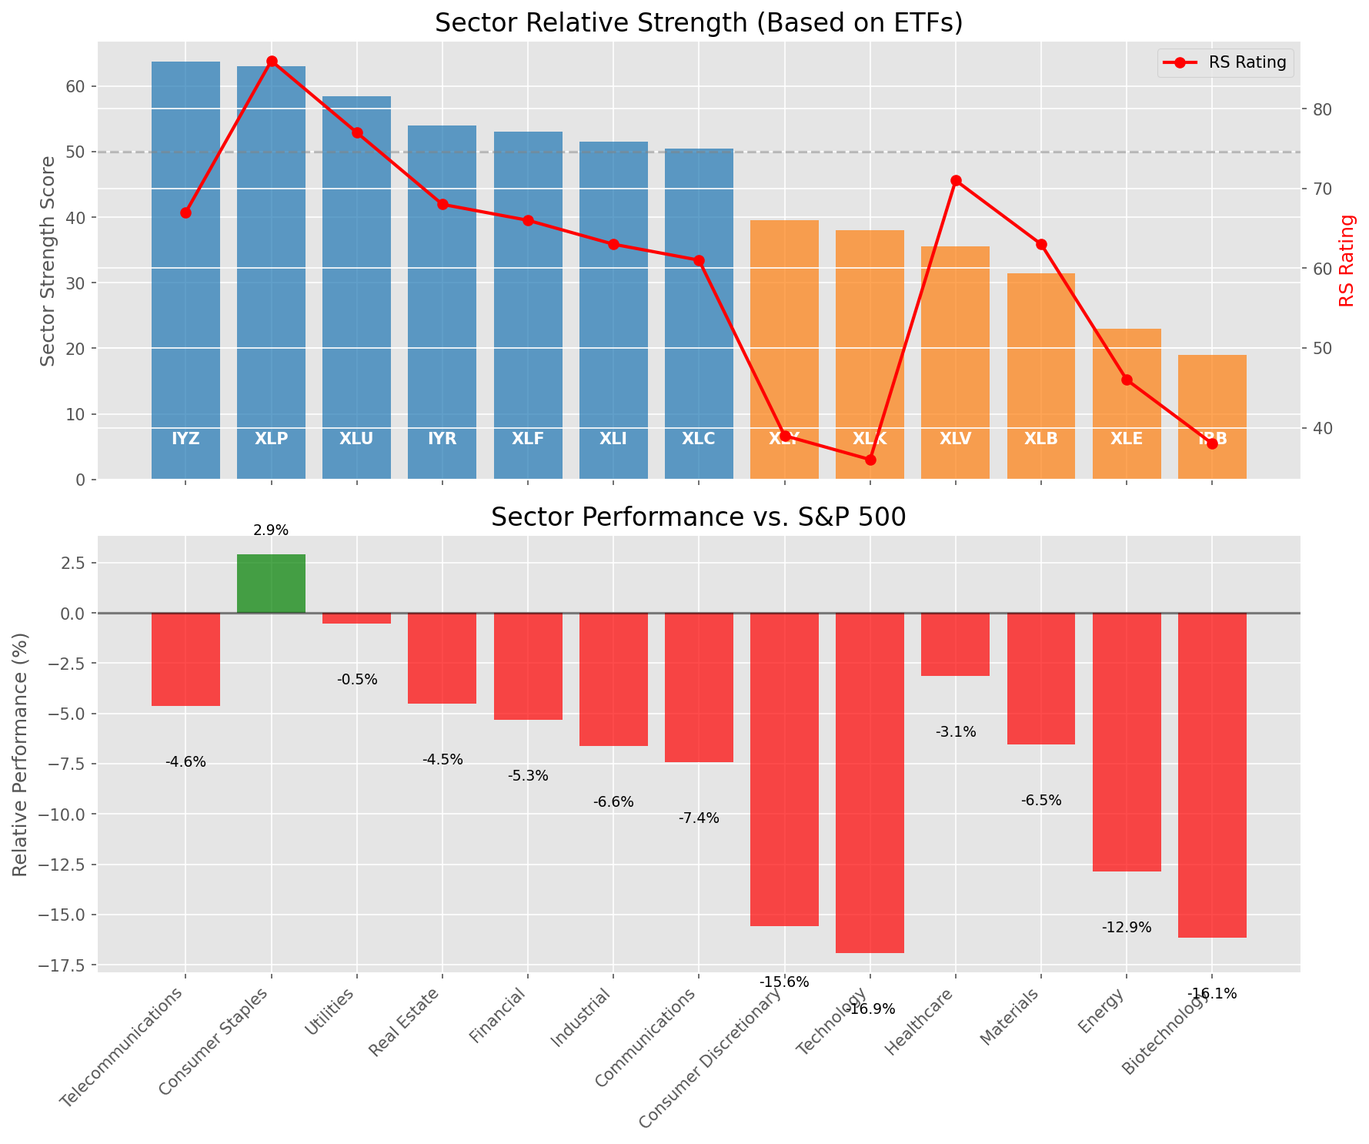
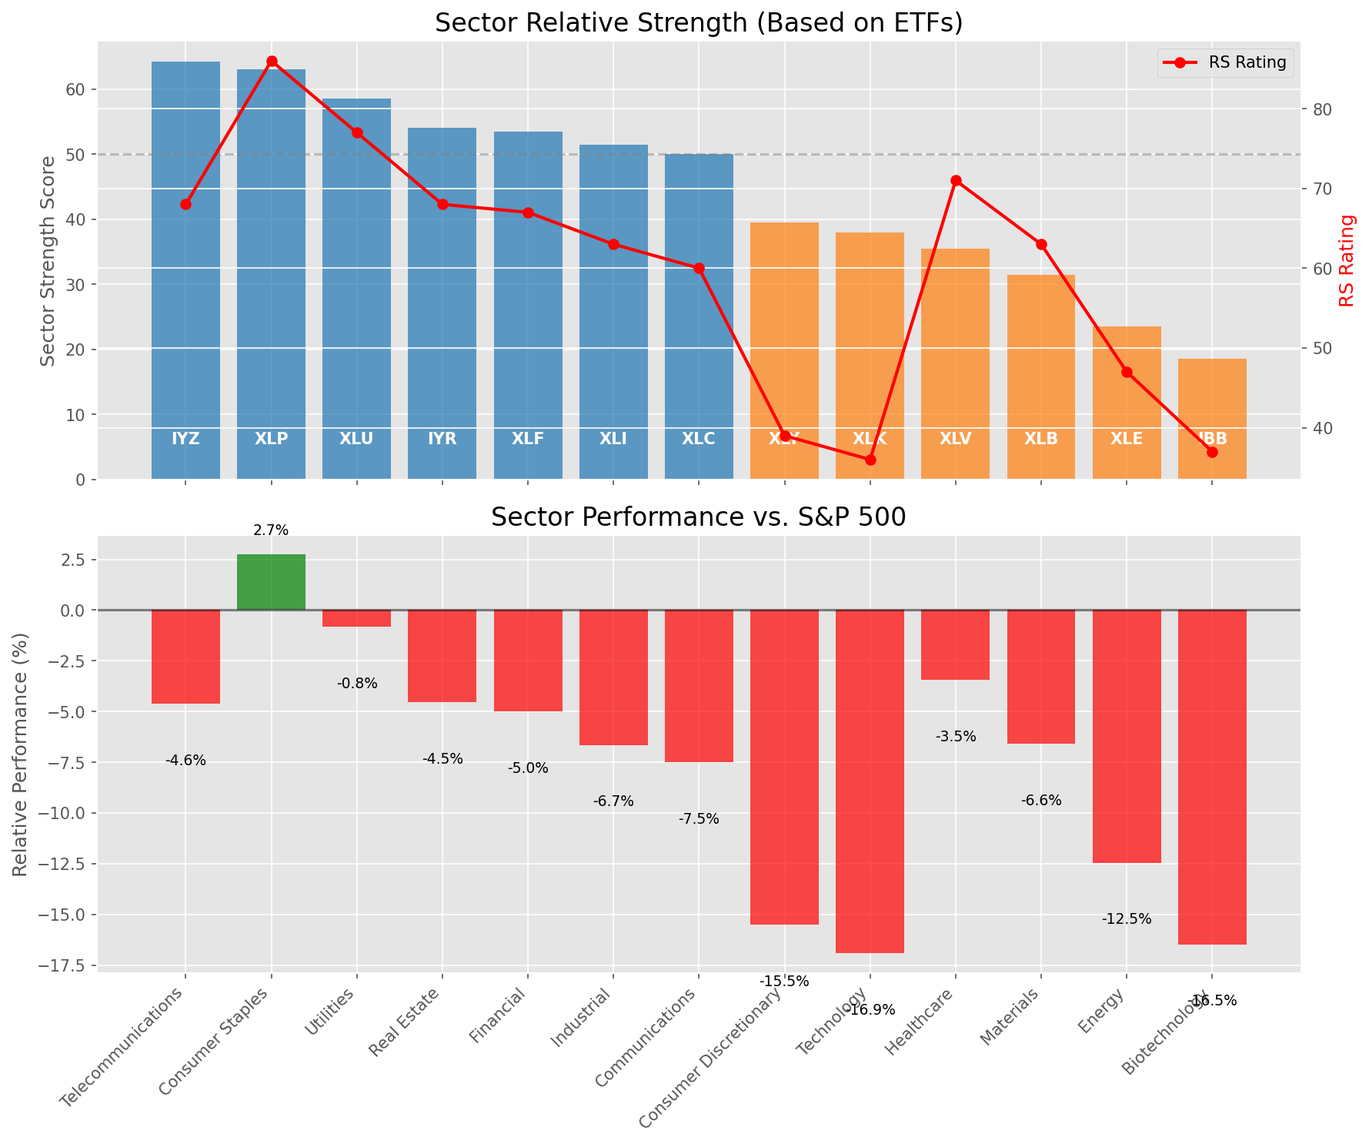
Add market report for 2025-04-10

diff --git a/oneil_relative_strength_report_2025-04-10.md b/oneil_relative_strength_report_2025-04-10.md
@@ -1,12 +1,3 @@
----
-layout: page
-title: "Daily Relative Strength Report - 2025-04-10"
----
-
-<div class="site-nav" style="margin-bottom: 20px;">
-  <a href="{{ site.baseurl }}/archive" class="nav-link">Report Archive</a>
-</div>
-
 # Daily Relative Strength Report
 
 **Date:** 2025-04-10
@@ -18,11 +9,11 @@ title: "Daily Relative Strength Report - 2025-04-10"
 | Metric | Value |
 |--------|-------|
 | **Market Valuation** | **Undervalued** |
-| **Current Ratio** | 8.62 |
+| **Current Ratio** | 8.66 |
 | **Historical Mean** | 9.71 |
 | **Standard Deviation** | 0.43 |
 | **Z-Score (StdDev from Mean)** | -1.58 |
-| **Total Market Cap** | $256.14 trillion |
+| **Total Market Cap** | $257.43 trillion |
 | **GDP** | $29.72 trillion |
 
 ## Market Insights
@@ -56,19 +47,19 @@ The Buffett Indicator (Total Market Cap / GDP) is a measure of the stock market'
 
 | ETF | Strength | RS Rating | Performance | Above Key MAs | Trend | Sector |
 |-----|----------|-----------|-------------|--------------|-------|--------|
-| [IYZ](https://www.tradingview.com/chart/?symbol=IYZ) | 63.7 | 67.0 | -4.62% | 10d ✗, 50d ✗, 200d ✓ | ↗ | Telecommunications |
-| [XLP](https://www.tradingview.com/chart/?symbol=XLP) | 63.0 | 86.0 | 2.90% | 10d ✗, 50d ✗, 200d ✗ | ↗ | Consumer Staples |
-| [XLU](https://www.tradingview.com/chart/?symbol=XLU) | 58.5 | 77.0 | -0.52% | 10d ✗, 50d ✗, 200d ✗ | ↗ | Utilities |
-| [IYR](https://www.tradingview.com/chart/?symbol=IYR) | 54.0 | 68.0 | -4.53% | 10d ✗, 50d ✗, 200d ✗ | ↗ | Real Estate |
-| [XLF](https://www.tradingview.com/chart/?symbol=XLF) | 53.0 | 66.0 | -5.32% | 10d ✗, 50d ✗, 200d ✗ | ↗ | Financial |
-| [XLI](https://www.tradingview.com/chart/?symbol=XLI) | 51.5 | 63.0 | -6.64% | 10d ✗, 50d ✗, 200d ✗ | ↗ | Industrial |
-| [XLC](https://www.tradingview.com/chart/?symbol=XLC) | 50.5 | 61.0 | -7.44% | 10d ✗, 50d ✗, 200d ✗ | ↗ | Communications |
-| [XLY](https://www.tradingview.com/chart/?symbol=XLY) | 39.5 | 39.0 | -15.59% | 10d ✗, 50d ✗, 200d ✗ | ↗ | Consumer Discretionary |
-| [XLK](https://www.tradingview.com/chart/?symbol=XLK) | 38.0 | 36.0 | -16.94% | 10d ✗, 50d ✗, 200d ✗ | ↗ | Technology |
-| [XLV](https://www.tradingview.com/chart/?symbol=XLV) | 35.5 | 71.0 | -3.15% | 10d ✗, 50d ✗, 200d ✗ | ↘ | Healthcare |
-| [XLB](https://www.tradingview.com/chart/?symbol=XLB) | 31.5 | 63.0 | -6.55% | 10d ✗, 50d ✗, 200d ✗ | ↘ | Materials |
-| [XLE](https://www.tradingview.com/chart/?symbol=XLE) | 23.0 | 46.0 | -12.86% | 10d ✗, 50d ✗, 200d ✗ | ↘ | Energy |
-| [IBB](https://www.tradingview.com/chart/?symbol=IBB) | 19.0 | 38.0 | -16.15% | 10d ✗, 50d ✗, 200d ✗ | ↘ | Biotechnology |
+| [IYZ](https://www.tradingview.com/chart/?symbol=IYZ) | 64.2 | 68.0 | -4.62% | 10d ✗, 50d ✗, 200d ✓ | ↗ | Telecommunications |
+| [XLP](https://www.tradingview.com/chart/?symbol=XLP) | 63.0 | 86.0 | 2.73% | 10d ✗, 50d ✗, 200d ✗ | ↗ | Consumer Staples |
+| [XLU](https://www.tradingview.com/chart/?symbol=XLU) | 58.5 | 77.0 | -0.83% | 10d ✗, 50d ✗, 200d ✗ | ↗ | Utilities |
+| [IYR](https://www.tradingview.com/chart/?symbol=IYR) | 54.0 | 68.0 | -4.55% | 10d ✗, 50d ✗, 200d ✗ | ↗ | Real Estate |
+| [XLF](https://www.tradingview.com/chart/?symbol=XLF) | 53.5 | 67.0 | -5.01% | 10d ✗, 50d ✗, 200d ✗ | ↗ | Financial |
+| [XLI](https://www.tradingview.com/chart/?symbol=XLI) | 51.5 | 63.0 | -6.66% | 10d ✗, 50d ✗, 200d ✗ | ↗ | Industrial |
+| [XLC](https://www.tradingview.com/chart/?symbol=XLC) | 50.0 | 60.0 | -7.50% | 10d ✗, 50d ✗, 200d ✗ | ↗ | Communications |
+| [XLY](https://www.tradingview.com/chart/?symbol=XLY) | 39.5 | 39.0 | -15.50% | 10d ✗, 50d ✗, 200d ✗ | ↗ | Consumer Discretionary |
+| [XLK](https://www.tradingview.com/chart/?symbol=XLK) | 38.0 | 36.0 | -16.92% | 10d ✗, 50d ✗, 200d ✗ | ↗ | Technology |
+| [XLV](https://www.tradingview.com/chart/?symbol=XLV) | 35.5 | 71.0 | -3.45% | 10d ✗, 50d ✗, 200d ✗ | ↘ | Healthcare |
+| [XLB](https://www.tradingview.com/chart/?symbol=XLB) | 31.5 | 63.0 | -6.59% | 10d ✗, 50d ✗, 200d ✗ | ↘ | Materials |
+| [XLE](https://www.tradingview.com/chart/?symbol=XLE) | 23.5 | 47.0 | -12.46% | 10d ✗, 50d ✗, 200d ✗ | ↘ | Energy |
+| [IBB](https://www.tradingview.com/chart/?symbol=IBB) | 18.5 | 37.0 | -16.48% | 10d ✗, 50d ✗, 200d ✗ | ↘ | Biotechnology |
 
 ### Sector ETF Performance Interpretation
 
@@ -85,7 +76,7 @@ This table shows the relative strength metrics for different market sectors base
 
 The current market leadership is coming from the following sectors: **Telecommunications, Consumer Staples, Utilities**.
 
-The **Telecommunications** sector (represented by **IYZ**) is showing particularly strong relative strength with an RS rating of 67.0 and performance of -4.62% vs. the S&P 500. This sector is trading above its 200-day moving average(s). Investors should consider focusing on high RS stocks within these leading sectors for potential outperformance.
+The **Telecommunications** sector (represented by **IYZ**) is showing particularly strong relative strength with an RS rating of 68.0 and performance of -4.62% vs. the S&P 500. This sector is trading above its 200-day moving average(s). Investors should consider focusing on high RS stocks within these leading sectors for potential outperformance.
 
 ## Buy Recommendations
 
@@ -93,98 +84,92 @@ The following 44 stocks show exceptional relative strength:
 
 | RS Rating | Buy Score | Current Price | Chart | Name | Ticker |
 |-----------|-----------|---------------|-------|------|--------|
-| 94 | 100 | $102.66 | [Chart](https://www.tradingview.com/chart/?symbol=EHC) | Encompass Health Corporation Common Stock | EHC |
-| 97 | 100 | $30.29 | [Chart](https://www.tradingview.com/chart/?symbol=SGOL) | abrdn Physical Gold Shares ETF | SGOL |
-| 100 | 100 | $112.28 | [Chart](https://www.tradingview.com/chart/?symbol=AEM) | Agnico Eagle Mines Ltd. | AEM |
-| 99 | 100 | $142.67 | [Chart](https://www.tradingview.com/chart/?symbol=PLMR) | Palomar Holdings, Inc. Common stock | PLMR |
-| 97 | 100 | $59.88 | [Chart](https://www.tradingview.com/chart/?symbol=IAU) | iShares Gold Trust | IAU |
-| 99 | 100 | $18.50 | [Chart](https://www.tradingview.com/chart/?symbol=SWI) | SolarWinds Corporation Common Stock | SWI |
-| 97 | 100 | $31.36 | [Chart](https://www.tradingview.com/chart/?symbol=AAAU) | Goldman Sachs Physical Gold ETF Shares | AAAU |
-| 99 | 100 | $131.13 | [Chart](https://www.tradingview.com/chart/?symbol=UGL) | ProShares Ultra Gold | UGL |
-| 97 | 100 | $31.32 | [Chart](https://www.tradingview.com/chart/?symbol=BAR) | GraniteShares Gold Shares | BAR |
-| 97 | 100 | $31.65 | [Chart](https://www.tradingview.com/chart/?symbol=IAUM) | iShares Gold Trust Micro | IAUM |
-| 92 | 100 | $47.62 | [Chart](https://www.tradingview.com/chart/?symbol=GFL) | GFL Environmental Inc. Subordinate Voting Shares | GFL |
-| 99 | 100 | $58.34 | [Chart](https://www.tradingview.com/chart/?symbol=GDXJ) | VanEck Junior Gold Miners ETF | GDXJ |
-| 97 | 100 | $292.73 | [Chart](https://www.tradingview.com/chart/?symbol=GLD) | SPDR Gold Trust, SPDR Gold Shares | GLD |
-| 93 | 100 | $103.32 | [Chart](https://www.tradingview.com/chart/?symbol=ATGE) | Adtalem Global Education Inc. Common Shares | ATGE |
-| 95 | 100 | $28.00 | [Chart](https://www.tradingview.com/chart/?symbol=CEF) | Sprott Physical Gold and Silver Trust | CEF |
-| 99 | 100 | $78.10 | [Chart](https://www.tradingview.com/chart/?symbol=WPM) | Wheaton Precious Metals Corp. Common Stock | WPM |
-| 97 | 100 | $30.60 | [Chart](https://www.tradingview.com/chart/?symbol=OUNZ) | VanEck Merk Gold ETF | OUNZ |
-| 88 | 100 | $44.50 | [Chart](https://www.tradingview.com/chart/?symbol=MRCY) | Mercury Systems Inc. | MRCY |
-| 96 | 100 | $21.73 | [Chart](https://www.tradingview.com/chart/?symbol=OR) | Osisko Gold Royalties Ltd | OR |
-| 97 | 100 | $24.34 | [Chart](https://www.tradingview.com/chart/?symbol=PHYS) | Sprott Physical Gold Trust | PHYS |
-| 97 | 100 | $62.88 | [Chart](https://www.tradingview.com/chart/?symbol=GLDM) | SPDR Gold MiniShares | GLDM |
-| 100 | 100 | $28.15 | [Chart](https://www.tradingview.com/chart/?symbol=AGI) | Alamos Gold Inc. Class A Common Shares | AGI |
-| 99 | 100 | $171.62 | [Chart](https://www.tradingview.com/chart/?symbol=RGLD) | Royal Gold Inc | RGLD |
-| 93 | 100 | $40.69 | [Chart](https://www.tradingview.com/chart/?symbol=BTI) | British American Tobacco p.l.c. American Depositary Shares, American Depositary Shares, each representing one Ordinary Share | BTI |
-| 89 | 100 | $33.86 | [Chart](https://www.tradingview.com/chart/?symbol=DRS) | Leonardo DRS, Inc. Common Stock | DRS |
-| 95 | 100 | $67.81 | [Chart](https://www.tradingview.com/chart/?symbol=KR) | The Kroger Co. | KR |
-| 94 | 100 | $436.54 | [Chart](https://www.tradingview.com/chart/?symbol=CASY) | Casey's General Stores Inc | CASY |
-| 93 | 100 | $31.77 | [Chart](https://www.tradingview.com/chart/?symbol=KTOS) | Kratos Defense & Security Solutions, Inc. | KTOS |
-| 94 | 100 | $273.19 | [Chart](https://www.tradingview.com/chart/?symbol=PGR) | Progressive Corporation | PGR |
-| 91 | 100 | $113.54 | [Chart](https://www.tradingview.com/chart/?symbol=CWST) | Casella Waste Systems Inc | CWST |
-| 94 | 100 | $154.84 | [Chart](https://www.tradingview.com/chart/?symbol=SFM) | Sprouts Farmers Market, Inc. | SFM |
-| 93 | 100 | $113.89 | [Chart](https://www.tradingview.com/chart/?symbol=OLLI) | Ollie's Bargain Outlet Holdings, Inc. Common Stock | OLLI |
-| 90 | 100 | $127.50 | [Chart](https://www.tradingview.com/chart/?symbol=TJX) | TJX Companies, Inc. (The) | TJX |
+| 97 | 100 | $30.26 | [Chart](https://www.tradingview.com/chart/?symbol=SGOL) | abrdn Physical Gold Shares ETF | SGOL |
+| 94 | 100 | $102.13 | [Chart](https://www.tradingview.com/chart/?symbol=EHC) | Encompass Health Corporation Common Stock | EHC |
+| 100 | 100 | $111.55 | [Chart](https://www.tradingview.com/chart/?symbol=AEM) | Agnico Eagle Mines Ltd. | AEM |
+| 97 | 100 | $59.81 | [Chart](https://www.tradingview.com/chart/?symbol=IAU) | iShares Gold Trust | IAU |
+| 99 | 100 | $117.30 | [Chart](https://www.tradingview.com/chart/?symbol=BJ) | BJs Wholesale Club Holdings, Inc. Common Stock | BJ |
+| 96 | 100 | $37.48 | [Chart](https://www.tradingview.com/chart/?symbol=MRX) | Marex Group plc Ordinary Shares | MRX |
+| 94 | 100 | $273.18 | [Chart](https://www.tradingview.com/chart/?symbol=PGR) | Progressive Corporation | PGR |
+| 99 | 100 | $18.49 | [Chart](https://www.tradingview.com/chart/?symbol=SWI) | SolarWinds Corporation Common Stock | SWI |
+| 89 | 100 | $44.75 | [Chart](https://www.tradingview.com/chart/?symbol=MRCY) | Mercury Systems Inc. | MRCY |
+| 97 | 100 | $62.80 | [Chart](https://www.tradingview.com/chart/?symbol=GLDM) | SPDR Gold MiniShares | GLDM |
+| 100 | 100 | $27.97 | [Chart](https://www.tradingview.com/chart/?symbol=AGI) | Alamos Gold Inc. Class A Common Shares | AGI |
+| 99 | 100 | $77.90 | [Chart](https://www.tradingview.com/chart/?symbol=WPM) | Wheaton Precious Metals Corp. Common Stock | WPM |
 | 99 | 100 | $15.49 | [Chart](https://www.tradingview.com/chart/?symbol=EZPW) | Ezcorp Inc | EZPW |
-| 95 | 100 | $52.13 | [Chart](https://www.tradingview.com/chart/?symbol=SKWD) | Skyward Specialty Insurance Group, Inc. Common Stock | SKWD |
-| 99 | 100 | $117.98 | [Chart](https://www.tradingview.com/chart/?symbol=BJ) | BJs Wholesale Club Holdings, Inc. Common Stock | BJ |
-| 98 | 100 | $21.98 | [Chart](https://www.tradingview.com/chart/?symbol=SRAD) | Sportradar Group AG Class A Ordinary Shares | SRAD |
-| 96 | 100 | $37.52 | [Chart](https://www.tradingview.com/chart/?symbol=MRX) | Marex Group plc Ordinary Shares | MRX |
+| 92 | 100 | $47.50 | [Chart](https://www.tradingview.com/chart/?symbol=GFL) | GFL Environmental Inc. Subordinate Voting Shares | GFL |
+| 100 | 100 | $131.04 | [Chart](https://www.tradingview.com/chart/?symbol=UGL) | ProShares Ultra Gold | UGL |
+| 97 | 100 | $292.35 | [Chart](https://www.tradingview.com/chart/?symbol=GLD) | SPDR Gold Trust, SPDR Gold Shares | GLD |
+| 95 | 100 | $52.15 | [Chart](https://www.tradingview.com/chart/?symbol=SKWD) | Skyward Specialty Insurance Group, Inc. Common Stock | SKWD |
+| 92 | 100 | $113.25 | [Chart](https://www.tradingview.com/chart/?symbol=OLLI) | Ollie's Bargain Outlet Holdings, Inc. Common Stock | OLLI |
+| 95 | 100 | $27.97 | [Chart](https://www.tradingview.com/chart/?symbol=CEF) | Sprott Physical Gold and Silver Trust | CEF |
+| 94 | 100 | $438.01 | [Chart](https://www.tradingview.com/chart/?symbol=CASY) | Casey's General Stores Inc | CASY |
+| 93 | 100 | $31.71 | [Chart](https://www.tradingview.com/chart/?symbol=KTOS) | Kratos Defense & Security Solutions, Inc. | KTOS |
+| 97 | 100 | $240.23 | [Chart](https://www.tradingview.com/chart/?symbol=RSG) | Republic Services Inc. | RSG |
+| 97 | 100 | $31.63 | [Chart](https://www.tradingview.com/chart/?symbol=IAUM) | iShares Gold Trust Micro | IAUM |
+| 90 | 100 | $127.47 | [Chart](https://www.tradingview.com/chart/?symbol=TJX) | TJX Companies, Inc. (The) | TJX |
+| 93 | 100 | $102.78 | [Chart](https://www.tradingview.com/chart/?symbol=ATGE) | Adtalem Global Education Inc. Common Shares | ATGE |
+| 97 | 100 | $31.26 | [Chart](https://www.tradingview.com/chart/?symbol=BAR) | GraniteShares Gold Shares | BAR |
+| 97 | 100 | $21.81 | [Chart](https://www.tradingview.com/chart/?symbol=OR) | Osisko Gold Royalties Ltd | OR |
+| 93 | 100 | $40.55 | [Chart](https://www.tradingview.com/chart/?symbol=BTI) | British American Tobacco p.l.c. American Depositary Shares, American Depositary Shares, each representing one Ordinary Share | BTI |
+| 97 | 100 | $30.55 | [Chart](https://www.tradingview.com/chart/?symbol=OUNZ) | VanEck Merk Gold ETF | OUNZ |
+| 97 | 100 | $31.32 | [Chart](https://www.tradingview.com/chart/?symbol=AAAU) | Goldman Sachs Physical Gold ETF Shares | AAAU |
+| 99 | 100 | $58.23 | [Chart](https://www.tradingview.com/chart/?symbol=GDXJ) | VanEck Junior Gold Miners ETF | GDXJ |
+| 99 | 100 | $142.99 | [Chart](https://www.tradingview.com/chart/?symbol=PLMR) | Palomar Holdings, Inc. Common stock | PLMR |
+| 89 | 100 | $33.96 | [Chart](https://www.tradingview.com/chart/?symbol=DRS) | Leonardo DRS, Inc. Common Stock | DRS |
+| 93 | 100 | $153.92 | [Chart](https://www.tradingview.com/chart/?symbol=SFM) | Sprouts Farmers Market, Inc. | SFM |
+| 97 | 100 | $24.32 | [Chart](https://www.tradingview.com/chart/?symbol=PHYS) | Sprott Physical Gold Trust | PHYS |
+| 99 | 100 | $170.97 | [Chart](https://www.tradingview.com/chart/?symbol=RGLD) | Royal Gold Inc | RGLD |
+| 95 | 100 | $67.90 | [Chart](https://www.tradingview.com/chart/?symbol=KR) | The Kroger Co. | KR |
+| 91 | 100 | $114.00 | [Chart](https://www.tradingview.com/chart/?symbol=CWST) | Casella Waste Systems Inc | CWST |
+| 98 | 100 | $22.02 | [Chart](https://www.tradingview.com/chart/?symbol=SRAD) | Sportradar Group AG Class A Ordinary Shares | SRAD |
+| 88 | 97 | $75.79 | [Chart](https://www.tradingview.com/chart/?symbol=FAST) | Fastenal Co | FAST |
 | 85 | 97 | $22.48 | [Chart](https://www.tradingview.com/chart/?symbol=ATSG) | Air Transport Services Group, Inc. | ATSG |
-| 88 | 97 | $75.73 | [Chart](https://www.tradingview.com/chart/?symbol=FAST) | Fastenal Co | FAST |
-| 83 | 96 | $111.58 | [Chart](https://www.tradingview.com/chart/?symbol=BOXX) | Alpha Architect 1-3 Month Box ETF | BOXX |
-| 85 | 96 | $74.23 | [Chart](https://www.tradingview.com/chart/?symbol=BRBR) | BellRing Brands, Inc. | BRBR |
-| 85 | 96 | $35.91 | [Chart](https://www.tradingview.com/chart/?symbol=FYBR) | Frontier Communications Parent, Inc. Common Stock | FYBR |
-| 84 | 94 | $22.46 | [Chart](https://www.tradingview.com/chart/?symbol=PYCR) | Paycor HCM, Inc. Common Stock | PYCR |
+| 85 | 96 | $35.94 | [Chart](https://www.tradingview.com/chart/?symbol=FYBR) | Frontier Communications Parent, Inc. Common Stock | FYBR |
+| 83 | 96 | $111.60 | [Chart](https://www.tradingview.com/chart/?symbol=BOXX) | Alpha Architect 1-3 Month Box ETF | BOXX |
+| 85 | 96 | $74.01 | [Chart](https://www.tradingview.com/chart/?symbol=BRBR) | BellRing Brands, Inc. | BRBR |
 
 ## Sell Recommendations
 
-The following 41 stocks show deteriorating relative strength:
+The following 35 stocks show deteriorating relative strength:
 
 | RS Rating | Sell Score | Current Price | Chart | Name | Ticker |
 |-----------|------------|---------------|-------|------|--------|
-| 12 | 100 | $27.11 | [Chart](https://www.tradingview.com/chart/?symbol=SRDX) | Surmodics, Inc. Common Stock | SRDX |
-| 12 | 100 | $43.31 | [Chart](https://www.tradingview.com/chart/?symbol=EDU) | New Oriental Education and Technology Group, Inc. American Depositary Shares (each representing ten (10) Common Shares) | EDU |
-| 8 | 100 | $10.10 | [Chart](https://www.tradingview.com/chart/?symbol=CGEM) | Cullinan Therapeutics, Inc. Common Stock | CGEM |
-| 1 | 100 | $65.44 | [Chart](https://www.tradingview.com/chart/?symbol=PI) | Impinj, Inc. Common Stock | PI |
-| 5 | 100 | $11.76 | [Chart](https://www.tradingview.com/chart/?symbol=GCT) | GigaCloud Technology Inc Class A Ordinary Shares | GCT |
-| 3 | 99 | $18.88 | [Chart](https://www.tradingview.com/chart/?symbol=DJT) | Trump Media & Technology Group Corp. Common Stock | DJT |
-| 6 | 99 | $35.42 | [Chart](https://www.tradingview.com/chart/?symbol=HELE) | Helen Of Troy Ltd | HELE |
-| 12 | 99 | $49.40 | [Chart](https://www.tradingview.com/chart/?symbol=ENPH) | Enphase Energy, Inc. | ENPH |
-| 8 | 94 | $11.68 | [Chart](https://www.tradingview.com/chart/?symbol=MARA) | MARA Holdings, Inc. Common Stock | MARA |
+| 5 | 100 | $11.58 | [Chart](https://www.tradingview.com/chart/?symbol=GCT) | GigaCloud Technology Inc Class A Ordinary Shares | GCT |
+| 11 | 100 | $42.57 | [Chart](https://www.tradingview.com/chart/?symbol=EDU) | New Oriental Education and Technology Group, Inc. American Depositary Shares (each representing ten (10) Common Shares) | EDU |
+| 1 | 100 | $65.92 | [Chart](https://www.tradingview.com/chart/?symbol=PI) | Impinj, Inc. Common Stock | PI |
+| 7 | 100 | $10.10 | [Chart](https://www.tradingview.com/chart/?symbol=CGEM) | Cullinan Therapeutics, Inc. Common Stock | CGEM |
+| 13 | 100 | $27.24 | [Chart](https://www.tradingview.com/chart/?symbol=SRDX) | Surmodics, Inc. Common Stock | SRDX |
+| 12 | 98 | $49.56 | [Chart](https://www.tradingview.com/chart/?symbol=ENPH) | Enphase Energy, Inc. | ENPH |
 | 15 | 94 | $11.78 | [Chart](https://www.tradingview.com/chart/?symbol=AEYE) | AudioEye, Inc. Common Stock | AEYE |
-| 24 | 92 | $13.12 | [Chart](https://www.tradingview.com/chart/?symbol=FXN) | First Trust Energy AlphaDEX Fund | FXN |
-| 15 | 92 | $21.00 | [Chart](https://www.tradingview.com/chart/?symbol=HOG) | Harley-Davidson, Inc. | HOG |
-| 13 | 92 | $19.16 | [Chart](https://www.tradingview.com/chart/?symbol=HZO) | MarineMax, Inc. | HZO |
+| 8 | 93 | $11.74 | [Chart](https://www.tradingview.com/chart/?symbol=MARA) | MARA Holdings, Inc. Common Stock | MARA |
+| 14 | 91 | $19.42 | [Chart](https://www.tradingview.com/chart/?symbol=HZO) | MarineMax, Inc. | HZO |
 | 26 | 91 | $10.03 | [Chart](https://www.tradingview.com/chart/?symbol=MTAL) | MAC Copper Limited | MTAL |
-| 17 | 90 | $26.50 | [Chart](https://www.tradingview.com/chart/?symbol=TAN) | Invesco Solar ETF | TAN |
-| 14 | 89 | $48.30 | [Chart](https://www.tradingview.com/chart/?symbol=RHI) | Robert Half Inc. | RHI |
+| 25 | 91 | $13.22 | [Chart](https://www.tradingview.com/chart/?symbol=FXN) | First Trust Energy AlphaDEX Fund | FXN |
+| 17 | 90 | $26.70 | [Chart](https://www.tradingview.com/chart/?symbol=TAN) | Invesco Solar ETF | TAN |
 | 17 | 89 | $10.24 | [Chart](https://www.tradingview.com/chart/?symbol=EXPI) | eXp World Holdings, Inc. Common Stock | EXPI |
 | 16 | 88 | $10.77 | [Chart](https://www.tradingview.com/chart/?symbol=SONO) | Sonos, Inc. Common Stock | SONO |
-| 23 | 87 | $52.47 | [Chart](https://www.tradingview.com/chart/?symbol=CNMD) | CONMED Corporation | CNMD |
-| 24 | 85 | $10.49 | [Chart](https://www.tradingview.com/chart/?symbol=PEB) | Pebblebrook Hotel Trust | PEB |
-| 20 | 85 | $10.24 | [Chart](https://www.tradingview.com/chart/?symbol=CMP) | Compass Minerals International, Inc. | CMP |
-| 17 | 84 | $111.14 | [Chart](https://www.tradingview.com/chart/?symbol=MYRG) | MYR Group, Inc. | MYRG |
-| 28 | 83 | $13.10 | [Chart](https://www.tradingview.com/chart/?symbol=MED) | Medifast, Inc. | MED |
-| 22 | 83 | $10.15 | [Chart](https://www.tradingview.com/chart/?symbol=HLIT) | Harmonic Inc | HLIT |
-| 22 | 83 | $11.37 | [Chart](https://www.tradingview.com/chart/?symbol=RIVN) | Rivian Automotive, Inc. Class A Common Stock | RIVN |
-| 23 | 82 | $11.34 | [Chart](https://www.tradingview.com/chart/?symbol=HPK) | HighPeak Energy, Inc. Common Stock | HPK |
-| 31 | 81 | $10.11 | [Chart](https://www.tradingview.com/chart/?symbol=CELC) | Celcuity Inc. Common Stock | CELC |
+| 22 | 88 | $52.29 | [Chart](https://www.tradingview.com/chart/?symbol=CNMD) | CONMED Corporation | CNMD |
+| 14 | 87 | $48.50 | [Chart](https://www.tradingview.com/chart/?symbol=RHI) | Robert Half Inc. | RHI |
+| 23 | 86 | $10.49 | [Chart](https://www.tradingview.com/chart/?symbol=PEB) | Pebblebrook Hotel Trust | PEB |
+| 21 | 84 | $10.15 | [Chart](https://www.tradingview.com/chart/?symbol=HLIT) | Harmonic Inc | HLIT |
+| 20 | 84 | $10.26 | [Chart](https://www.tradingview.com/chart/?symbol=CMP) | Compass Minerals International, Inc. | CMP |
+| 22 | 83 | $11.34 | [Chart](https://www.tradingview.com/chart/?symbol=HPK) | HighPeak Energy, Inc. Common Stock | HPK |
+| 17 | 83 | $111.89 | [Chart](https://www.tradingview.com/chart/?symbol=MYRG) | MYR Group, Inc. | MYRG |
+| 23 | 82 | $11.46 | [Chart](https://www.tradingview.com/chart/?symbol=RIVN) | Rivian Automotive, Inc. Class A Common Stock | RIVN |
+| 30 | 82 | $10.11 | [Chart](https://www.tradingview.com/chart/?symbol=CELC) | Celcuity Inc. Common Stock | CELC |
+| 29 | 81 | $13.14 | [Chart](https://www.tradingview.com/chart/?symbol=MED) | Medifast, Inc. | MED |
 | 26 | 79 | $10.04 | [Chart](https://www.tradingview.com/chart/?symbol=HTLD) | Heartland Express Inc | HTLD |
-| 26 | 79 | $17.43 | [Chart](https://www.tradingview.com/chart/?symbol=IART) | Integra LifeSciences Holdings | IART |
-| 22 | 78 | $348.24 | [Chart](https://www.tradingview.com/chart/?symbol=SAIA) | Saia, Inc. | SAIA |
+| 26 | 78 | $17.42 | [Chart](https://www.tradingview.com/chart/?symbol=IART) | Integra LifeSciences Holdings | IART |
 | 33 | 78 | $10.71 | [Chart](https://www.tradingview.com/chart/?symbol=DBRG) | DigitalBridge Group, Inc. | DBRG |
-| 28 | 77 | $51.30 | [Chart](https://www.tradingview.com/chart/?symbol=HXL) | Hexcel Corporation | HXL |
-| 30 | 75 | $22.14 | [Chart](https://www.tradingview.com/chart/?symbol=AMRK) | A-Mark Precious Metals, Inc. | AMRK |
+| 23 | 77 | $351.45 | [Chart](https://www.tradingview.com/chart/?symbol=SAIA) | Saia, Inc. | SAIA |
+| 27 | 77 | $51.12 | [Chart](https://www.tradingview.com/chart/?symbol=HXL) | Hexcel Corporation | HXL |
+| 30 | 74 | $22.11 | [Chart](https://www.tradingview.com/chart/?symbol=AMRK) | A-Mark Precious Metals, Inc. | AMRK |
 | 39 | 73 | $10.30 | [Chart](https://www.tradingview.com/chart/?symbol=CSTM) | Constellium SE Class A Ordinary shares | CSTM |
-| 37 | 71 | $10.96 | [Chart](https://www.tradingview.com/chart/?symbol=LBTYK) | Liberty Global Ltd. Class C Common Shares | LBTYK |
-| 36 | 70 | $16.64 | [Chart](https://www.tradingview.com/chart/?symbol=CTRI) | Centuri Holdings, Inc. | CTRI |
+| 36 | 71 | $10.90 | [Chart](https://www.tradingview.com/chart/?symbol=LBTYK) | Liberty Global Ltd. Class C Common Shares | LBTYK |
+| 36 | 69 | $16.74 | [Chart](https://www.tradingview.com/chart/?symbol=CTRI) | Centuri Holdings, Inc. | CTRI |
 | 36 | 69 | $10.34 | [Chart](https://www.tradingview.com/chart/?symbol=CMRE) | Costamare Inc. | CMRE |
-| 39 | 69 | $11.31 | [Chart](https://www.tradingview.com/chart/?symbol=NAVI) | Navient Corporation | NAVI |
-| 37 | 68 | $56.59 | [Chart](https://www.tradingview.com/chart/?symbol=BMRN) | BioMarin Pharmaceuticals Inc | BMRN |
-| 36 | 64 | $24.88 | [Chart](https://www.tradingview.com/chart/?symbol=RAMP) | LiveRamp Holdings, Inc. Common Stock | RAMP |
-| 36 | 64 | $105.52 | [Chart](https://www.tradingview.com/chart/?symbol=MHO) | M/I Homes, Inc. | MHO |
+| 38 | 62 | $34.28 | [Chart](https://www.tradingview.com/chart/?symbol=LIT) | Global X Lithium & Battery Tech ETF | LIT |
 
 ## Methodology
 
